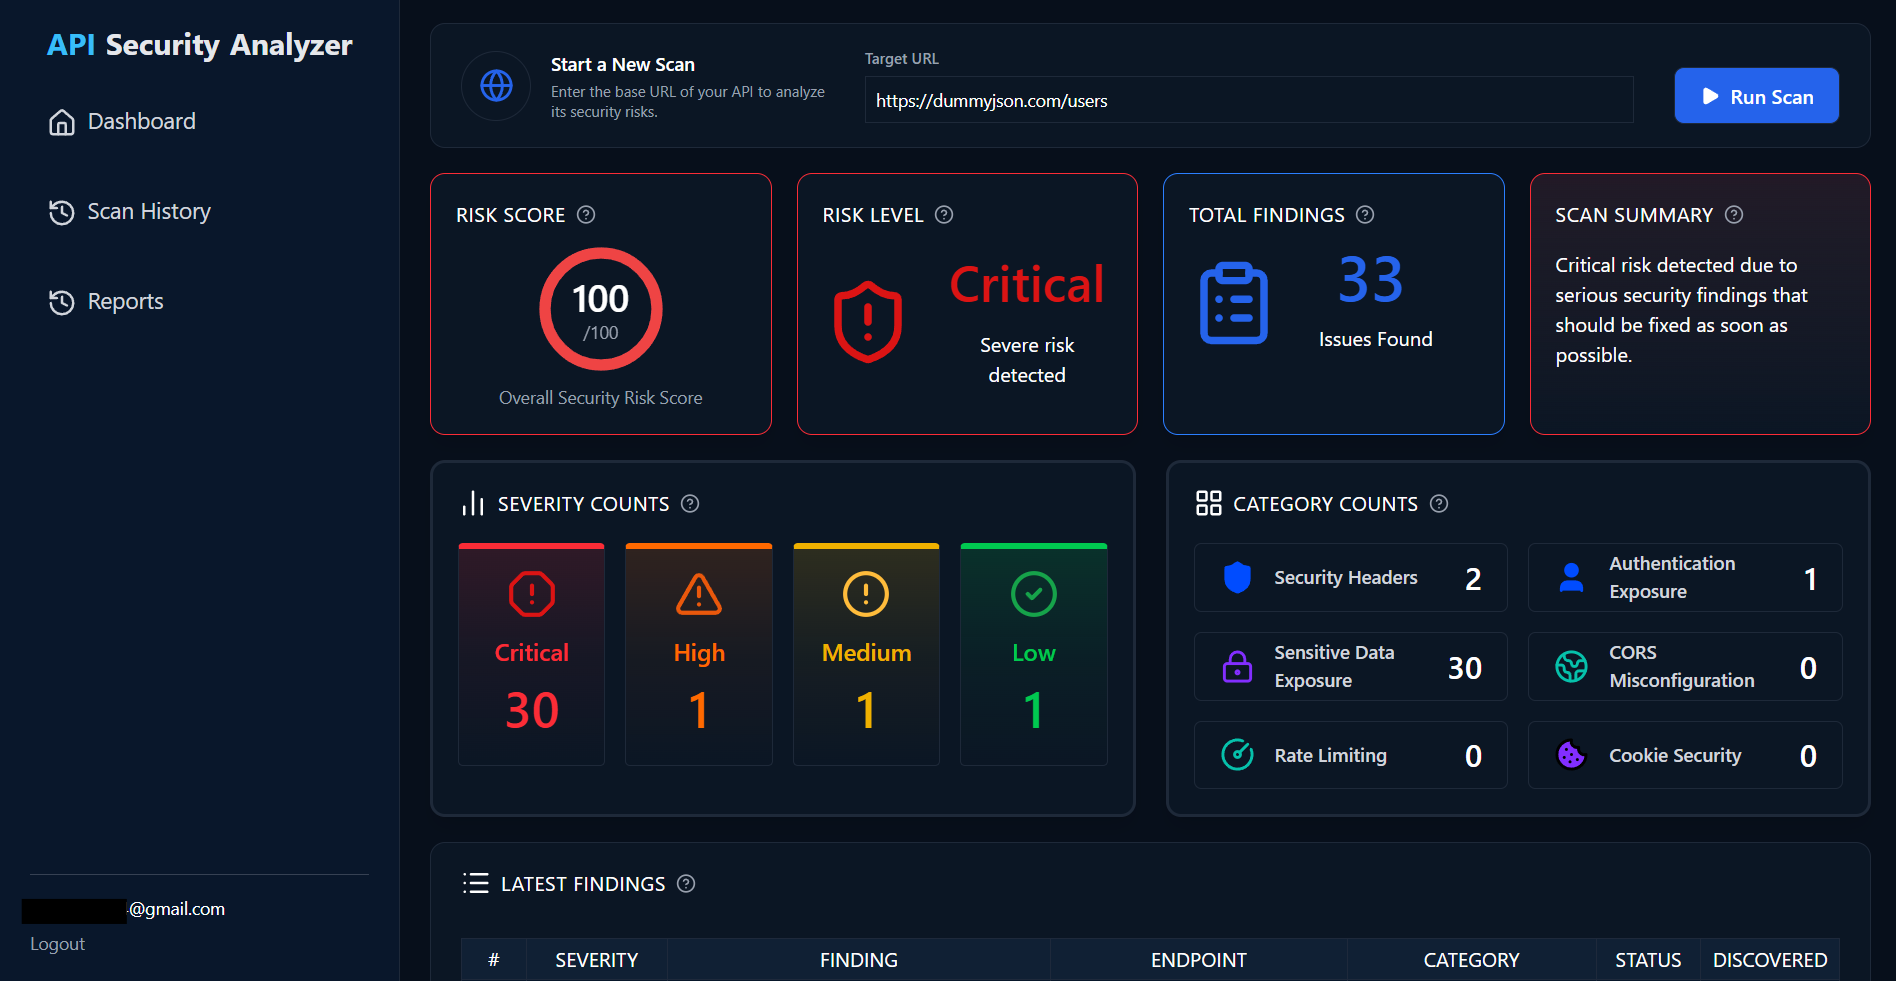
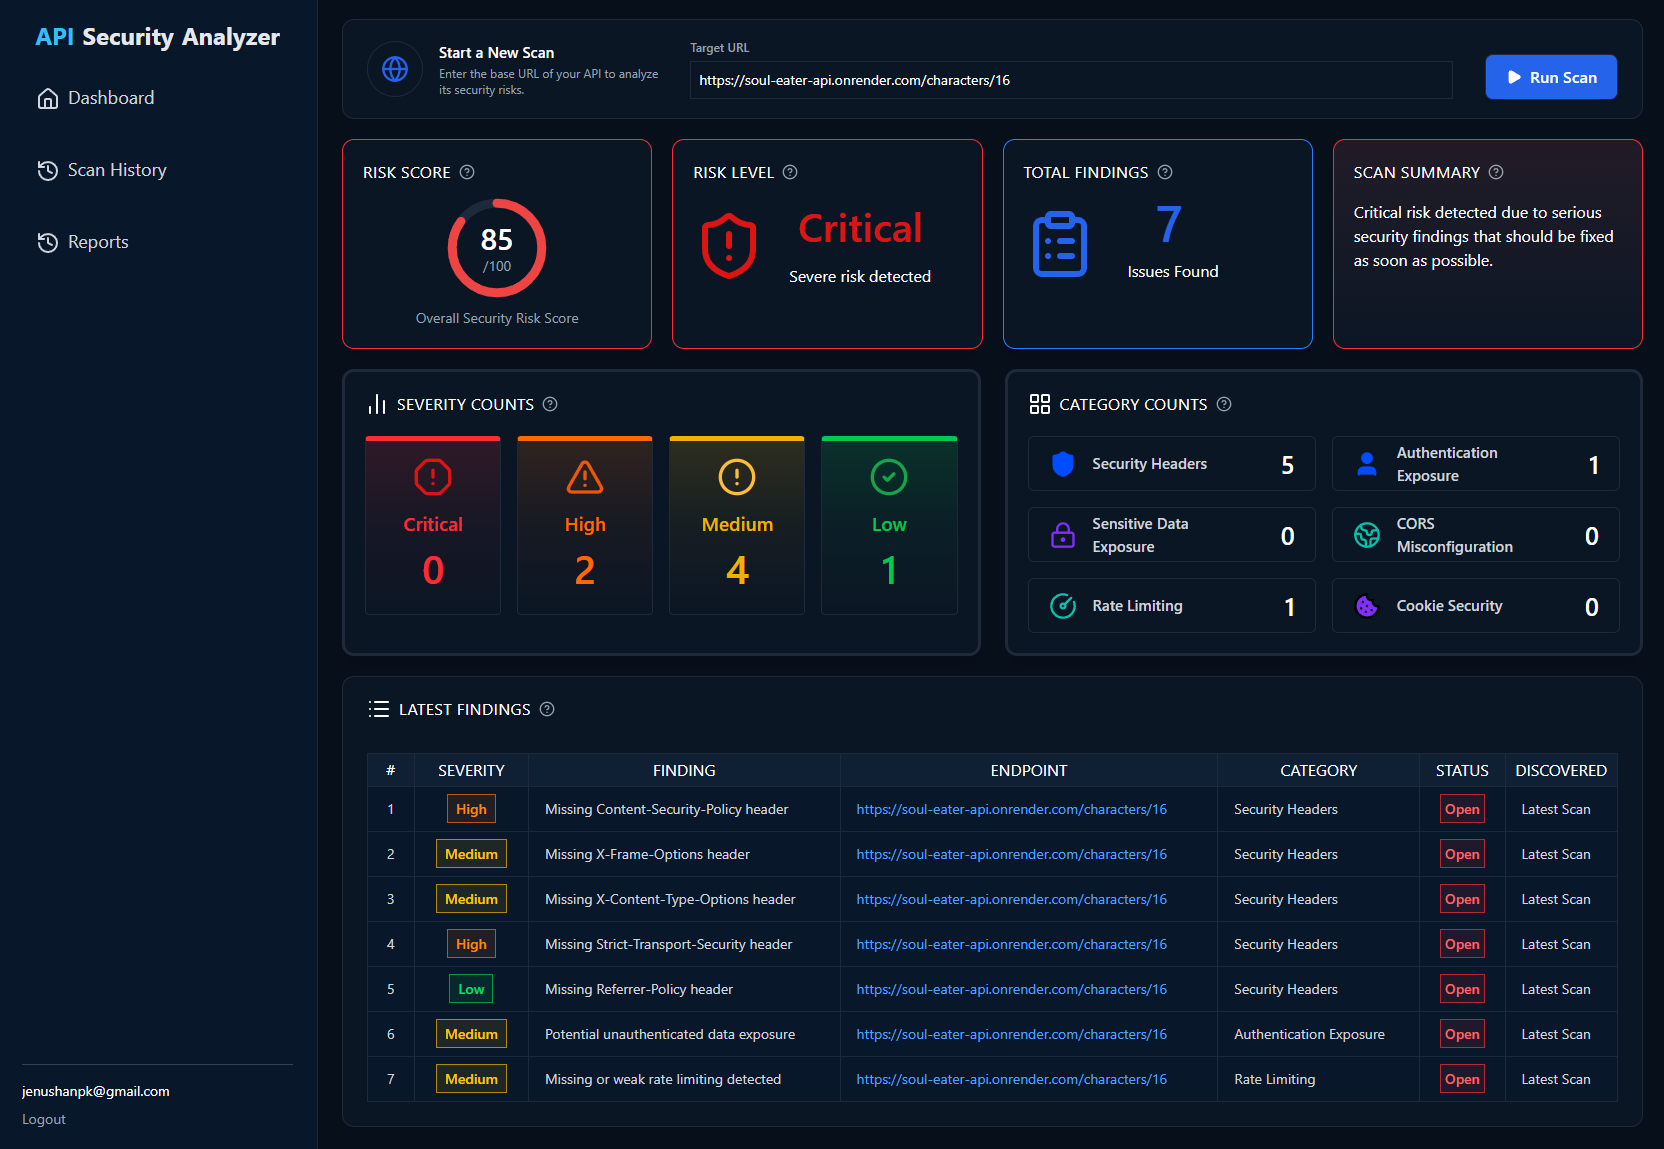
style: improve project card design

diff --git a/app/components/ProjectSection.tsx b/app/components/ProjectSection.tsx
@@ -1,20 +1,17 @@
 import { Dot } from 'lucide-react';
 import ProjectCard from './ProjectCard';
+import { bebasNeue, ibmPlexMono } from "../fonts";
 
 function ProjectSection() {
   return (
-    <div className="bg-[#1b1d1f] mx-5 min-h-[350px] border-[#222325] border-2 rounded-md">
-      <div className='flex gap-2'>
-        <p className="ml-3 mt-5 text-[#e4822d]">//</p>
-        <p className="mt-5 text-white">featured projects</p>
-        <Dot className='mt-5 text-[#e4822d]' />
-
-      </div>
-
-      <div className='mt-2 mb-2 ml-2 flex gap-2'>
-        <ProjectCard name='API Security Analyzer' image='/images/api-security-analyzer.png' description='Scans APIs for security vulnerabilities and misconfiguration. Generates detailed reports with risk scoring' skills={["Next.js", "TypeScript", "FastAPI", "PostgreSQL",]} />
-        <ProjectCard name='Soul Eater API' image='/images/soul-eater-api.png' description='A full-stack REST API for the Soul Eater anime and manga. Browse characters, weapons, abilities, organizations, and story arcs.' skills={["Next.js", "TypeScript", "FastAPI", "SQLAlchemy",]} />
-        <ProjectCard name='Olympic Performance Analyzer' image='/images/olympic-performance-analyzer.png' description='A full-stack REST API for the Soul Eater anime and manga. Browse characters, weapons, abilities, organizations, and story arcs.' skills={["Python", "Pandas", "Streamlit", "Plotly",]} />
+    <div className="mx-5">
+      <div className='mx-auto w-fit'>
+        <p className={`${bebasNeue.className} flex justify-start blueprint-text-white text-[75px] leading-[0.82] text-white/90 tracking-[0.015em] mb-10 mt-5 ml-2`}>PROJECTS</p>
+        <div className='mt-2 mb-2 ml-2 flex gap-10 justify-center'>
+          <ProjectCard name='API Security Analyzer' image='/images/api-security-analyzer.png' description='Full-stack web application that scans REST APIs for common security vulnerabilities and misconfigurations. Generates risk scores, detailed findings, and remediation recommendations through an interactive dashboard. Includes user authentication, scan history, and report management.' skills={["Next.js", "TypeScript", "FastAPI", "PostgreSQL",]} project_url='https://api-security-analyzer.vercel.app/' github_url='https://github.com/Jenushan44/api-security-analyzer' />
+          <ProjectCard name='Soul Eater API' image='/images/soul-eater-api.png' description='Full-stack REST API and web application built around the Soul Eater anime and manga universe. Browse characters, weapons, abilities, organizations, and story arcs with search and filtering. Features a responsive interface backed by a custom FastAPI backend.' skills={["Next.js", "TypeScript", "FastAPI", "SQLAlchemy",]} project_url='https://soul-eater-api.vercel.app/' github_url='https://github.com/Jenushan44/soul-eater-api' />
+          <ProjectCard name='Olympic Performance Analyzer' image='/images/olympic-performance-analyzer.png' description='Interactive data analytics dashboard exploring more than a century of Olympic history. Analyze medal trends, country performance, and sport specialization through visualizations. Built with Python and modern data analysis libraries to transform large datasets into insights.' skills={["Python", "Pandas", "Streamlit", "Plotly",]} project_url='https://olympic-performance-analyzer.streamlit.app/' github_url='https://github.com/Jenushan44/olympic-performance-analyzer' />
+        </div>
       </div>
     </div>
   );

diff --git a/app/components/ProjectCard.tsx b/app/components/ProjectCard.tsx
@@ -1,25 +1,51 @@
 import Image from "next/image"
+import { Dot, ExternalLink } from "lucide-react"
 
 type CardProps = {
   image: string;
   name: string;
   description: string;
   skills: string[];
+  project_url: string;
+  github_url: string;
 }
 
-function ProjectCard({ name, image, description, skills }: CardProps) {
+function ProjectCard({ name, image, description, skills, project_url, github_url }: CardProps) {
 
   return (
-    <div className="border-2 border-[#222325] rounded-xl overflow-hidden w-[360px] pb-3">
-      <Image className="h-[200px] overflow-hidden" src={image} alt="Project screenshot" width={360} height={360} />
-      <p className="text-white font-semibold mt-2 ml-2">{name}</p>
-      <p className="text-white/60 text-sm ml-2">{description}</p>
-      <div className="flex">
-        {skills.map((skill) => (
-          <p key={skill} className=" bg-[#2b2d2f] px-2 py-1 text-white font-semibold mt-2 ml-2 gap-2 text-xs border-2 border-[#222325]">{skill}</p>
-        ))}
+    <div className="group flex w-[540px] flex-col overflow-hidden rounded-xl border-2 border-[#1b88f2] bg-[#001432] pb-3 shadow-[10px_10px_0_#0a4f93] transition-all duration-300 ease-out hover:-translate-x-[10px] hover:-translate-y-[10px] hover:shadow-[20px_20px_0_#0a4f93]">
+      <div className="flex justify-center">
+        <Image className="h-[240px] w-full border-b border-[#1b88f2] transition-all duration-300 group-hover:brightness-110 group-hover:scale-[1.02]" src={image} alt={`${name} screenshot`} width={500} height={300} />
       </div>
-    </div>
+
+      <div>
+        <div className="ml-5 mt-3 w-fit overflow-hidden">
+          <p className="text-2xl font-semibold text-white">{name}</p>
+          <div className="mt-1 h-[2px] w-full -translate-x-full bg-[#1b88f2] transition-transform duration-300 group-hover:translate-x-0" />
+        </div>
+        <p className="text-white/60 text-md mx-5 mt-3 mb-2">{description}</p>
+        <div className="flex">
+          {skills.map((skill) => (
+            <p key={skill} className="px-2 py-1 text-[#1b88f2] bg-[#1b88f2]/10 font-semibold mt-2 ml-5 gap-2 text-sm border-1 border-[#1b88f2] rounded-sm">{skill}</p>
+          ))}
+        </div>
+      </div>
+      <div className="mx-auto h-[0.5px] w-[95%] bg-[#1b88f2] mt-4" />
+
+      <div className="mt-2 flex items-center justify-center mr-5 gap-3">
+        <div className="mx-auto py-5">
+          <a href={project_url} target="_blank" className=" flex w-fit items-center justify-center gap-3 border border-[#1b88f2] px-3 py-2 text-white shadow-[3px_3px_0_#1b88f2] transition-all duration-150 hover:translate-x-[3px] hover:translate-y-[3px] hover:shadow-none">
+            View Project<ExternalLink />
+          </a>
+        </div>
+        <div className="mx-auto h-[95%] w-[0.5px] bg-[#1b88f2]" />
+        <div className="mx-auto py-5">
+          <a href={github_url} target="_blank" className=" flex w-fit items-center justify-center gap-3 border border-[#1b88f2] px-3 py-2 text-white shadow-[3px_3px_0_#1b88f2] transition-all duration-150 hover:translate-x-[3px] hover:translate-y-[3px] hover:shadow-none">
+            GitHub <img className="w-6 h-6 invert" src="https://cdn.jsdelivr.net/gh/devicons/devicon@latest/icons/github/github-original.svg" />
+          </a>
+        </div>
+      </div>
+    </div >
   )
 }
 
